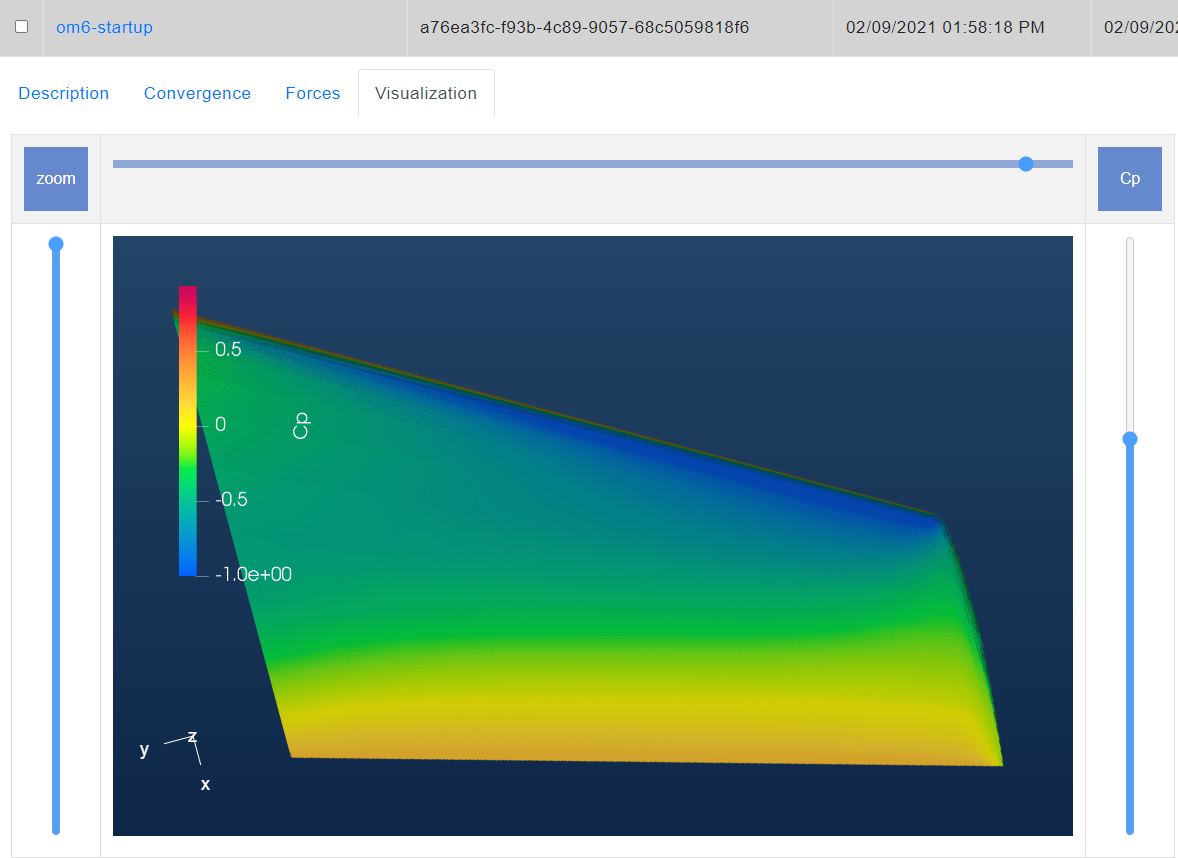
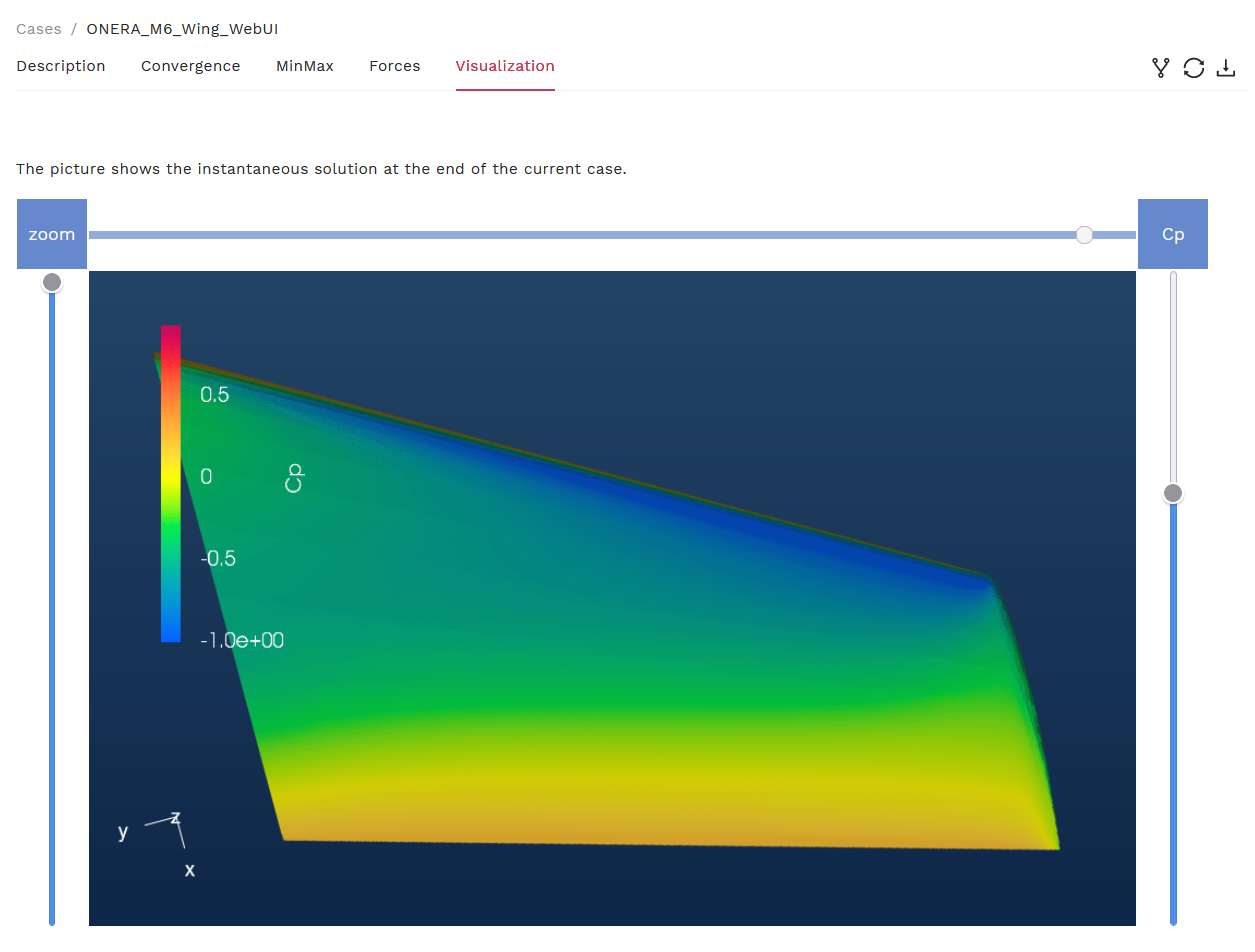
updateQuickStart-OM6-WebUI Update gitignore remove _build folder Update .gitignore Update om6_wing_webUI.rst Update the Cp plot

Changed region(s): [[0.0, 0.1515, 1.0, 1.0], [0.0, 0.0, 1.0, 0.1212], [0.2139, 0.4848, 0.275, 0.5152]]

diff --git a/docs/source/examples/om6_wing_webUI.rst b/docs/source/examples/om6_wing_webUI.rst
@@ -25,28 +25,46 @@ The mesh used for this case contains 113K nodes and 663K tetrahedrons, and the f
 Get CFD results in two simple steps
 ===================================
 
-After you `sign in <https://client.flexcompute.com/app/login>`_, visit https://client.flexcompute.com/app/mesh. 
+After you `sign in <https://client.flexcompute.com/app/login>`_, visit https://client.flexcompute.com/app/volumemeshes. 
 
-**Step 1. Upload the Mesh File:**
+**Step 1. Upload the Volume Mesh File:**
 
-To upload a mesh file, under the Mesh tab click on Upload Mesh File icon as displayed below:
+To upload a volumetric mesh file, under the **Volume Mesh** tab click on **Upload** icon as displayed below:
 
 .. image:: figures_OM6_Tutorial/UploadMesh.png
+   :scale: 60%
    :align: center
 
-This will open a window.  You need to upload two files here.  The first is the mesh.  Download an example mesh of  M6 Wing `here <https://simcloud-public-1.s3.amazonaws.com/om6/wing_tetra.1.lb8.ugrid>`_.  The second is the mesh configure json.  Download one `here <https://simcloud-public-1.s3.amazonaws.com/om6/Flow360Mesh.json?content_disposition=attachment>`_.  When uploading the mesh, be sure to set the Endianness to 'little endian' for this tutorial.  More information on endianness can be found `here <https://en.wikipedia.org/wiki/Endianness>`_.  (**Note**: Mesh Name and Tags are optional.)  Then click submit to upload and process your mesh. You can see the status of the mesh under the **Status** tab.
+This will open a window as shown in the next figure.  You need to upload two files here.  The first is the volume mesh.  Download an example mesh of  M6 Wing `here <https://simcloud-public-1.s3.amazonaws.com/om6/wing_tetra.1.lb8.ugrid>`_.  The second is the mesh configuration json.  Download one `here <https://simcloud-public-1.s3.amazonaws.com/om6/Flow360Mesh.json?content_disposition=attachment>`_.  When uploading the mesh, be sure to set the Endianness to 'little endian' for this tutorial.  More information on endianness can be found `here <https://en.wikipedia.org/wiki/Endianness>`_.  (**Note**: Mesh Name and Tags are optional. For Release History, the latest solver version will be used here by default.)  Then click submit to upload and process your mesh. You can see the status of the mesh under the **Status** tab.
+
+.. image:: figures_OM6_Tutorial/UploadMeshJsonFile.png
+   :scale: 60%
+   :align: center
 
 **Step 2. Launch a CFD Case:**
 
-You do not have to wait for your mesh to be processed. Once your mesh is uploaded you can start the case submission process. To start a new case, click on the airplane icon under the **Actions** tab.
+You do not have to wait for your mesh to be processed. Once your mesh is uploaded you can start the case submission process. To start a new case, click on the airplane icon under the **Actions** tab as shown below.
 
 .. image:: figures_OM6_Tutorial/NewCase.png
-   :scale: 70%
+   :scale: 60%
    :align: center
 
-Once you click the airplane icon, another window will pop up to give you an option to choose a corresponding `Flow360.json <https://simcloud-public-1.s3.amazonaws.com/om6/Flow360.json?content_disposition=attachment>`_ configuration file for your case. A full dictionary of configuration parameters for the JSON input file can be found :ref:`here <Flow360json>`.  You may also provide a Case Name and Tags. Hit Submit to run your case.  Once the case is submitted, you can check the case status by clicking the **Case** tab.
+Once you click the airplane icon, the webpage will re-direct you to an interactive interface as shown below, to either generate a case configuration json online or upload a pre-configured json file.  
+
+.. image:: figures_OM6_Tutorial/StartNewCase.png
+   :scale: 60%
+   :align: center
+
+Please use this `Flow360.json <https://simcloud-public-1.s3.amazonaws.com/om6/Flow360.json?content_disposition=attachment>`_ file for the current case, and upload it through the window as displayed below. 
+
+.. image:: figures_OM6_Tutorial/UploadCaseJsonFile.png
+   :scale: 60%
+   :align: center
+
+A full dictionary of configuration parameters for the JSON input file can be found :ref:`here <Flow360json>`.  You may also provide a Case Name and Tags to track your case later on. Hit **Submit** to run your case.  Once the case is submitted, you can check the case status by clicking the **Case** tab.
 
 .. image:: figures_OM6_Tutorial/CaseStatus.png
+   :scale: 60%
    :align: center
 
 .. raw:: html
@@ -70,6 +88,7 @@ Visualizing the Results:
 While your case is running, or after that, you can visualize the Residuals and Forces plot by clicking on your case name and viewing them under the **Convergence** and **Forces** tabs, respectively.
 
 .. image:: figures_OM6_Tutorial/ConvergenceTab.png
+   :scale: 60%
    :align: center
 
 For example, the Forces plots for this case are:
@@ -86,6 +105,7 @@ For example, the Forces plots for this case are:
 Once your case has completed running, you can also visualize the contour plots of the results under the **Visualization** tab.  Currently, contour plots for Coefficient of Pressure (C\ :sub:`p`\), Coefficient of Skin Friction (C\ :sub:`f`\), Y+, and C\ :sub:`f`\  with streamlines are provided.
 
 .. image:: figures_OM6_Tutorial/VisResults.png
+   :scale: 70%
    :align: center
 
 Downloading the Results:
@@ -94,6 +114,7 @@ Downloading the Results:
 Once your case has finished running, you can download the results (Surfaces, Volume and Log) by clicking the download arrow under the **Actions** tab.
 
 .. image:: figures_OM6_Tutorial/DownloadResults.png
+   :scale: 70%
    :align: center
 
 The Volume and Surface data can be post-processed in either ParaView or Tecplot, based on your selection of outputFormat in the Flow360.json file. And the Log file (solver.out) can be used to view the solver time and other run details.
@@ -104,8 +125,11 @@ Fork a Case:
 You can also restart a case, to continue from the last point of the previous run, by clicking the **Fork a Case** icon under the **Actions** tab and change the parameters of your Flow360.json configuration file according to your needs or upload an entirely new configuration file.
 
 .. image:: figures_OM6_Tutorial/ForkCase1.png
+   :scale: 70%
+   :align: center
 .. image:: figures_OM6_Tutorial/ForkCase2.png
-   :scale: 90%
+   :scale: 60%
+   :align: center
 
 Deleting a Mesh/Case:
 ^^^^^^^^^^^^^^^^^^^^^
@@ -113,4 +137,5 @@ Deleting a Mesh/Case:
 You can delete a mesh/case by clicking on the trash can icon under the **Actions** tab. (*Caution*: You will not be able to recover your deleted case or mesh files including its results after your deletion.)
 
 .. image:: figures_OM6_Tutorial/DeleteMeshCase_1.png
+   :scale: 70%
    :align: center
